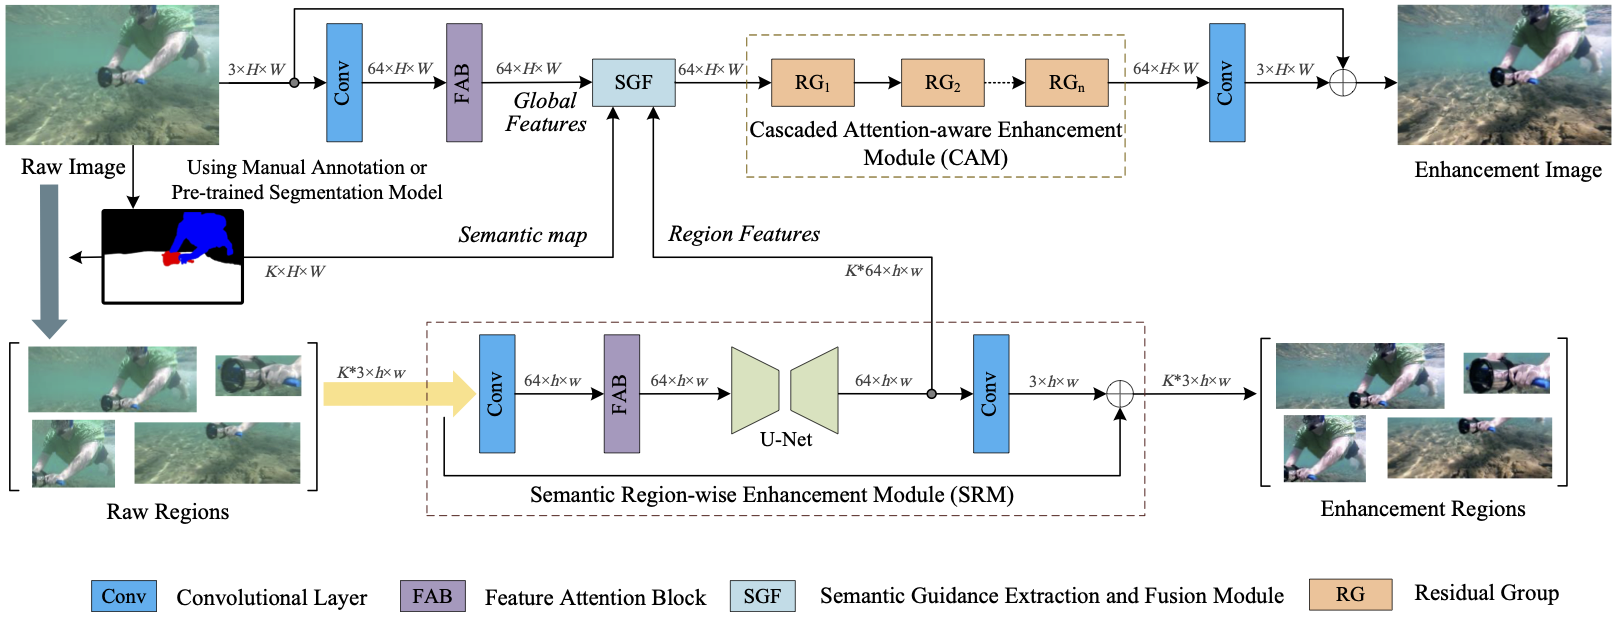
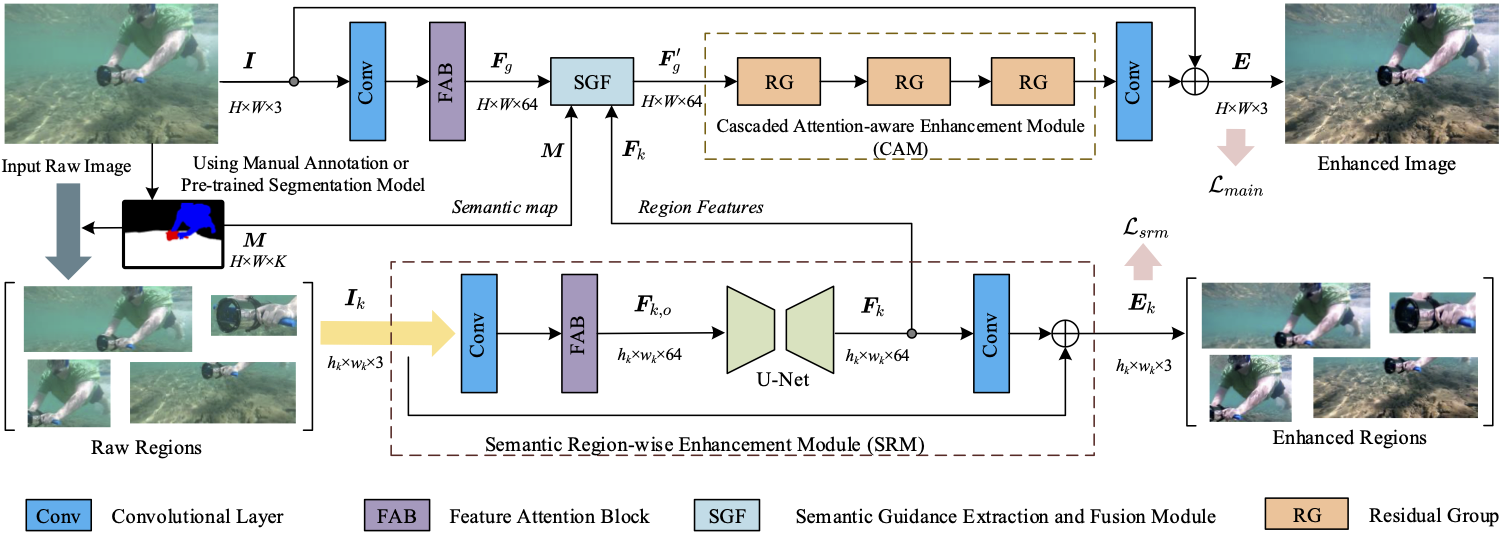
revised update

diff --git a/SGUIE-Net.html b/SGUIE-Net.html
@@ -45,7 +45,7 @@
             <div class="container">
                 <div class="row">
                     <div class="col-lg-12 col-md-12 col-sm-12 text-center  offset-xl-0 col-xl-12">
-                        <p style="text-align:justify"><em>Due to the wavelength-dependent light attenuation and scattering, underwater images usually suﬀer from color distortion and blurred details. However, due to the limited number of paired underwater images with undistorted images as reference, training deep enhancement models for diverse degradation types is quite diﬃcult. To boost the performance of data-driven approaches, it is essential to establish more eﬀective learning mechanisms that mine richer supervised information from limited training sample resources. In this paper, we propose a novel underwater image enhancement network, called SGUIENet, in which we introduce semantic information as high-level guidance across diﬀerent images that share common semantic regions. Accordingly, we propose semantic region-wise enhancement module to perceive the degradation of diﬀerent semantic regions from multiple scales and feed it back to the global attention features extracted from its original scale. This strategy helps to achieve robust and visually pleasant enhancements to diﬀerent semantic objects, which should thanks to the guidance of semantic information for diﬀerentiated enhancement. More importantly, for those degradation types that are not common in the training sample distribution, the guidance connects them with the already well-learned types according to their semantic relevance. Extensive experiments on the publicly available datasets and our proposed dataset demonstrated the impressive performance of SGUIE-Net.</em></p>
+                        <p style="text-align:justify"><em>Due to the wavelength-dependent light attenuation, refraction and scattering, underwater images usually suffer from color distortion and blurred details.However, due to the limited number of paired underwater images with undistorted images as reference, training deep enhancement models for diverse degradation types is quite difficult. To boost the performance of data-driven approaches, it is essential to establish more effective learning mechanisms that mine richer supervised information from limited training sample resources. In this paper, we propose a novel underwater image enhancement network, called SGUIE-Net, in which we introduce semantic information as high-level guidance via region-wise enhancement feature learning. Accordingly, we propose semantic region-wise enhancement module to better learn local enhancement features for semantic regions with multi-scale perception. After using them as complementary features and feeding them to the main branch, which extracts the global enhancement features on the original image scale, the fused features bring semantically consistent and visually superior enhancements. Extensive experiments on the publicly available datasets and our proposed dataset demonstrate the impressive performance of SGUIE-Net.</em></p>
                         <p class="text-left">&nbsp;</p>
                         <h5 class="text-center">
                             <a href="https://arxiv.org/abs/2201.02832">[Paper]</a>
@@ -64,13 +64,13 @@
                             <h2>Highlights</h2>
                             <ol>
                                 <li>
-                                    <p class="text-left">We introduce semantic association into underwater image enhancement task and propose a semantic attention guided underwater image enhancement network called SGUIE-Net. It learns features incorporating high-level semantic
-                                        information to build enhancement guidance for those degradation types that are uncommon in the training sample distribution but semantically relevant with the well-learned types.
+                                    <p class="text-left">We propose a semantic attention guided underwater image enhancement network called SGUIE-Net. It learns enhancement features incorporating semantic clues to help recover those degradations that are uncommon in the training
+                                        sample distribution but semantically relevant with the well-learned types.
                                     </p>
                                 </li>
                                 <li>
-                                    <p class="text-left">We design SGUIE-Net as a deep enhancement network with multi-scale perception, whose main branch and semantic branch are fused to complement each other. The main branch is used to provide end-to-end enhancement while
-                                        preserving image texture details in original scale, and the semantic branch is used to complement the semantically guided features with multi-scale perception.</p>
+                                    <p class="text-left">We design SGUIE-Net as a deep enhancement network with multi-scale perception, whose main branch for global-wise learning and semantic branch for region-wise learning are fused to complement each other. The main branch
+                                        is used to provide end-to-end enhancement while preserving image texture details in original scale, and the semantic branch is used to complement the semantic attention guided features with multi-scale perception.</p>
                                 </li>
                                 <li>
                                     <p class="text-left">We establish a new benchmark, namely SUIM-E, by extending the Segmentation of Underwater IMagery (SUIM) dataset with corresponding enhancement reference images. Then, comprehensive experiments, evaluations and analyses
@@ -93,18 +93,17 @@
                     <div class="row">
                         <div class="col-lg-12 col-md-12 col-sm-12 text-center col-xl-12"> <img src="./SGUIE-Net_files/images/SGUIE-Net_1.png" width="900" alt="">
                             <p>&nbsp;</p>
-                            <p class="text-left">Fig 1. Architecture of SGUIE-Net. Our SGUIE-Net contains two enhancement branches for multi-scale perception, the main (top) branch works on the original input scale through the cascaded attention-aware enhancement module which
-                                contains multiple residual groups (RGs), and additionally embeds a semantic guided feature extraction and fusion module (SGF) to achieve enhanced multi-scale features. The bottom branch works on the semantic level, learning
-                                multi-scale semantic association features with encoder-decoder structure. It builds semantic enhancement guidance through the semantic region-wise enhancement module (SRM) and then feeds them back to the main branch. The
-                                details of the FAB, RG and SGF modules are shown in Figure 2.</p>
+                            <p class="text-left">Fig 1. The architecture of SGUIE-Net. Our SGUIE-Net contains two enhancement branches for multi-scale perception, the main (top) branch works on the original input scale through the cascaded attention-aware enhancement module
+                                (CAM) which contains three residual groups (RGs), and additionally embeds a semantic guided feature extraction and fusion module (SGF) to receive enhanced multi-scale features. The bottom branch learns multi-scale enhancement
+                                features with semantic attention using an encoder-decoder structure. It builds semantic enhancement guidance through the semantic region-wise enhancement module (SRM) and then feeds them back to the main branch. The details
+                                of the FAB, RG and SGF modules are shown in Figure 2.</p>
                             <p>&nbsp;</p>
                             <p>&nbsp;</p>
                         </div>
                         <div class="col-lg-12 col-md-12 col-sm-12 text-center col-xl-12"> <img src="./SGUIE-Net_files/images/SGUIE-Net_2.png" width="900" alt="">
                             <p>&nbsp;</p>
-                            <p class="text-left">Fig 2. The architecture of the basic blocks of our SGUIE-Net. (a) Feature attention block (FAB) consists of cascaded channel attention (CA) and pixel attention (PA) module. (b) illustrates the RG module formed by multiple FABs
-                                with shorted connections. (c) The SFG module takes the global attention features obtained by the head of the main branch, semantic mask and the semantic region-based attention features as the inputs. Then, the SFG module
-                                extracts the local parts of the global attention features according to the semantic guidance for the later fusion on the semantic region-based attention features.</p>
+                            <p class="text-left">Fig 2. The architectures of the basic blocks of our SGUIE-Net. (a) Feature attention block (FAB) consists of cascaded channel attention (CA) and pixel attention (PA) module. (b) illustrates the RG module formed by multiple
+                                FABs with shorted connections. (c) The SFG module takes the global intermediate residual feature <i><b>F<sub>g</sub></b></i>, semantic mask <i><b>M</b></i> and the region-wise residual enhancement feature <i><b>F<sub>k</sub></b></i>                                as the inputs. Then, the SFG module extracts the local parts of <i><b>F<sub>g</sub></b></i> according to the semantic guidance of <i><b>M</b></i> for the later fusion with <i><b>F<sub>k</sub></b></i>.</p>
                             <p>&nbsp;</p>
                             <p>&nbsp;</p>
                         </div>
@@ -120,15 +119,17 @@
                     <div class="row">
                         <div class="col-lg-12 col-md-12 col-sm-12 text-center col-xl-12"> <img src="./SGUIE-Net_files/images/SUIM-E.png" width="900" alt="">
                             <p>&nbsp;</p>
-                            <p class="text-center">Fig. 3. Visual comparisons on underwater images from SUIM-E test set.</p>
+                            <p class="text-center">Fig. 3. Visual comparisons on underwater images from SUIM-E test set. The perceptual score is marked on the upper right corner of each enhancement.</p>
                             <p>&nbsp;</p>
                         </div>
                     </div>
 
                     <div class="row">
-                        <div class="col-lg-12 col-md-12 col-sm-12 text-center col-xl-12"> <img src="./SGUIE-Net_files/images/UIEB_60.png" width="900" alt="">
+                        <div class="col-lg-12 col-md-12 col-sm-12 text-center col-xl-12"> <img src="./SGUIE-Net_files/images/UIEB60-RUIE-EUVP.png" width="900" alt="">
                             <p>&nbsp;</p>
-                            <p class="text-center">Fig 4. Visual comparisons on underwater images from UIEB challenging test set. Perceptual scores are marked on the upper right corner.</p>
+                            <p class="text-center">Fig 4. Visual comparisons on underwater images from UIEB Challenging set (the top two rows), RUIE (the middle two rows) and EUVP (the bottom two rows) datasets. The perceptual score is marked on the upper right corner of each
+                                enhancement.
+                            </p>
                             <p>&nbsp;</p>
                         </div>
                     </div>
@@ -136,7 +137,7 @@
                     <div class="row">
                         <div class="col-lg-12 col-md-12 col-sm-12 text-center col-xl-12"> <img src="./SGUIE-Net_files/images/SQUID.png" width="900" alt="">
                             <p>&nbsp;</p>
-                            <p class="text-center">Fig 5. Visual comparisons on challenging underwater images from SQUID. Perceptual scores are marked on the upper right corner.</p>
+                            <p class="text-center">Fig 5. Visual comparisons on challenging underwater images from SQUID. The perceptual score is marked on the upper right corner of each enhancement.</p>
                             <p>&nbsp;</p>
                         </div>
                     </div>
